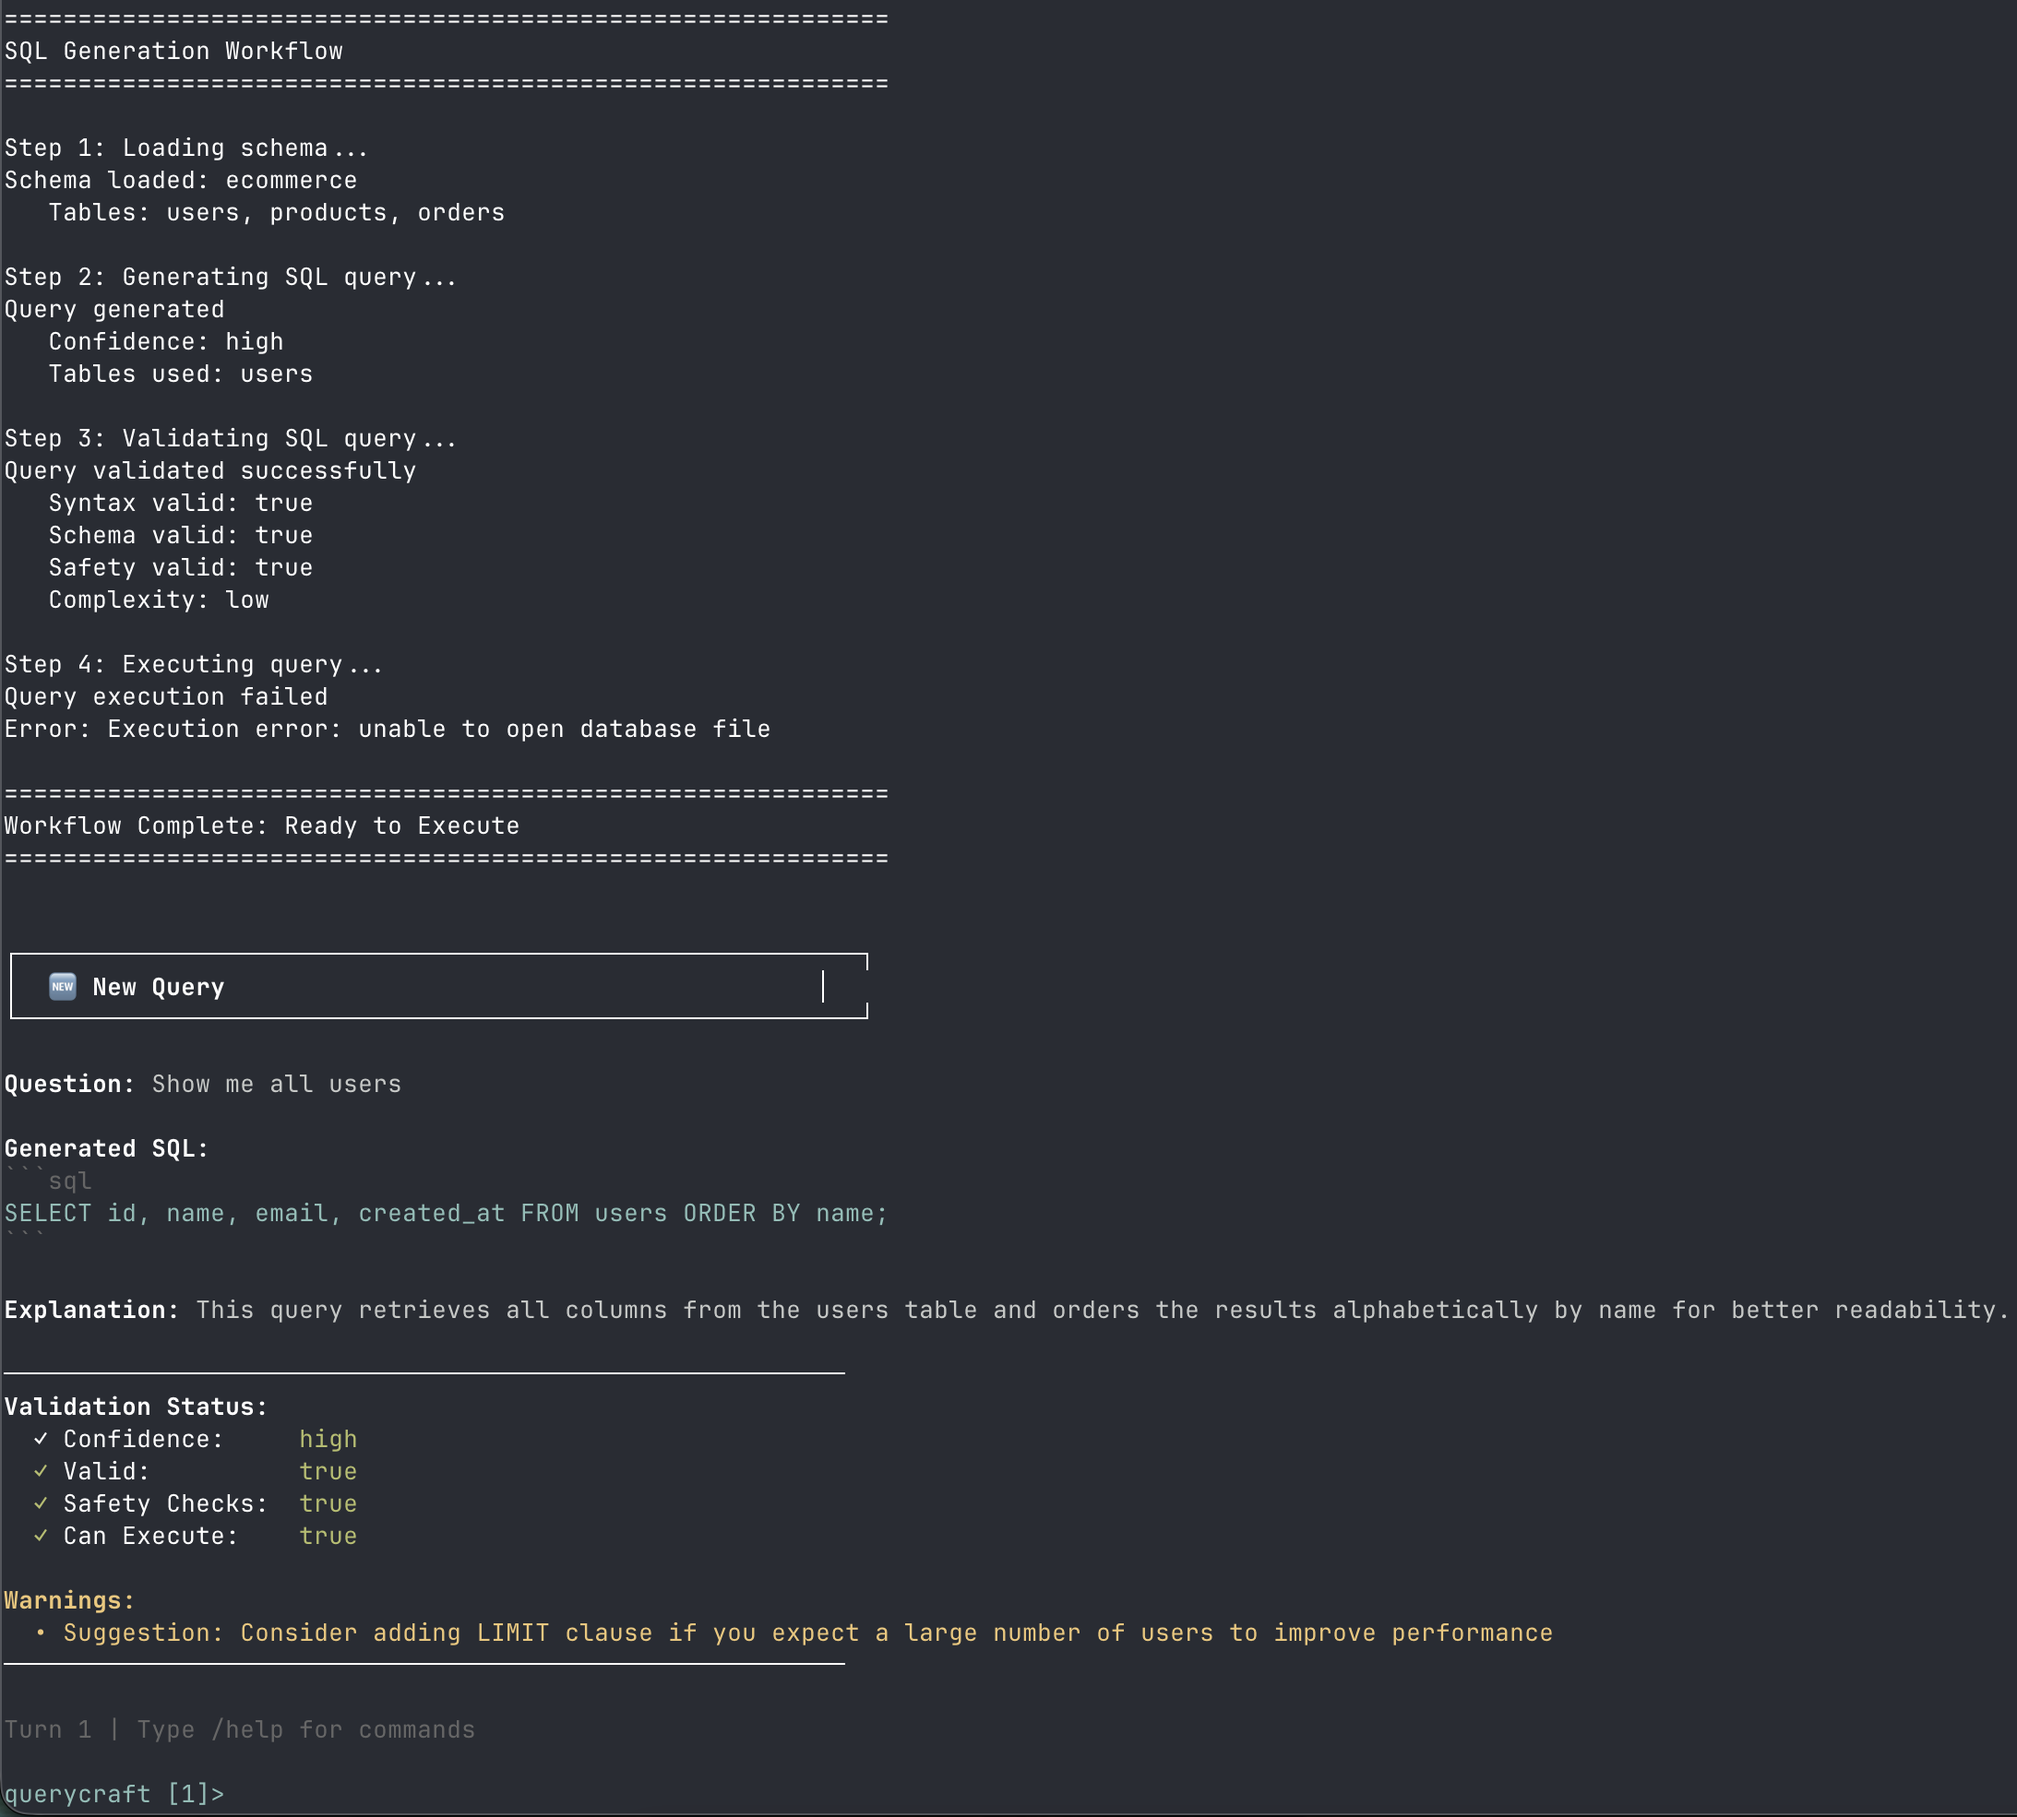
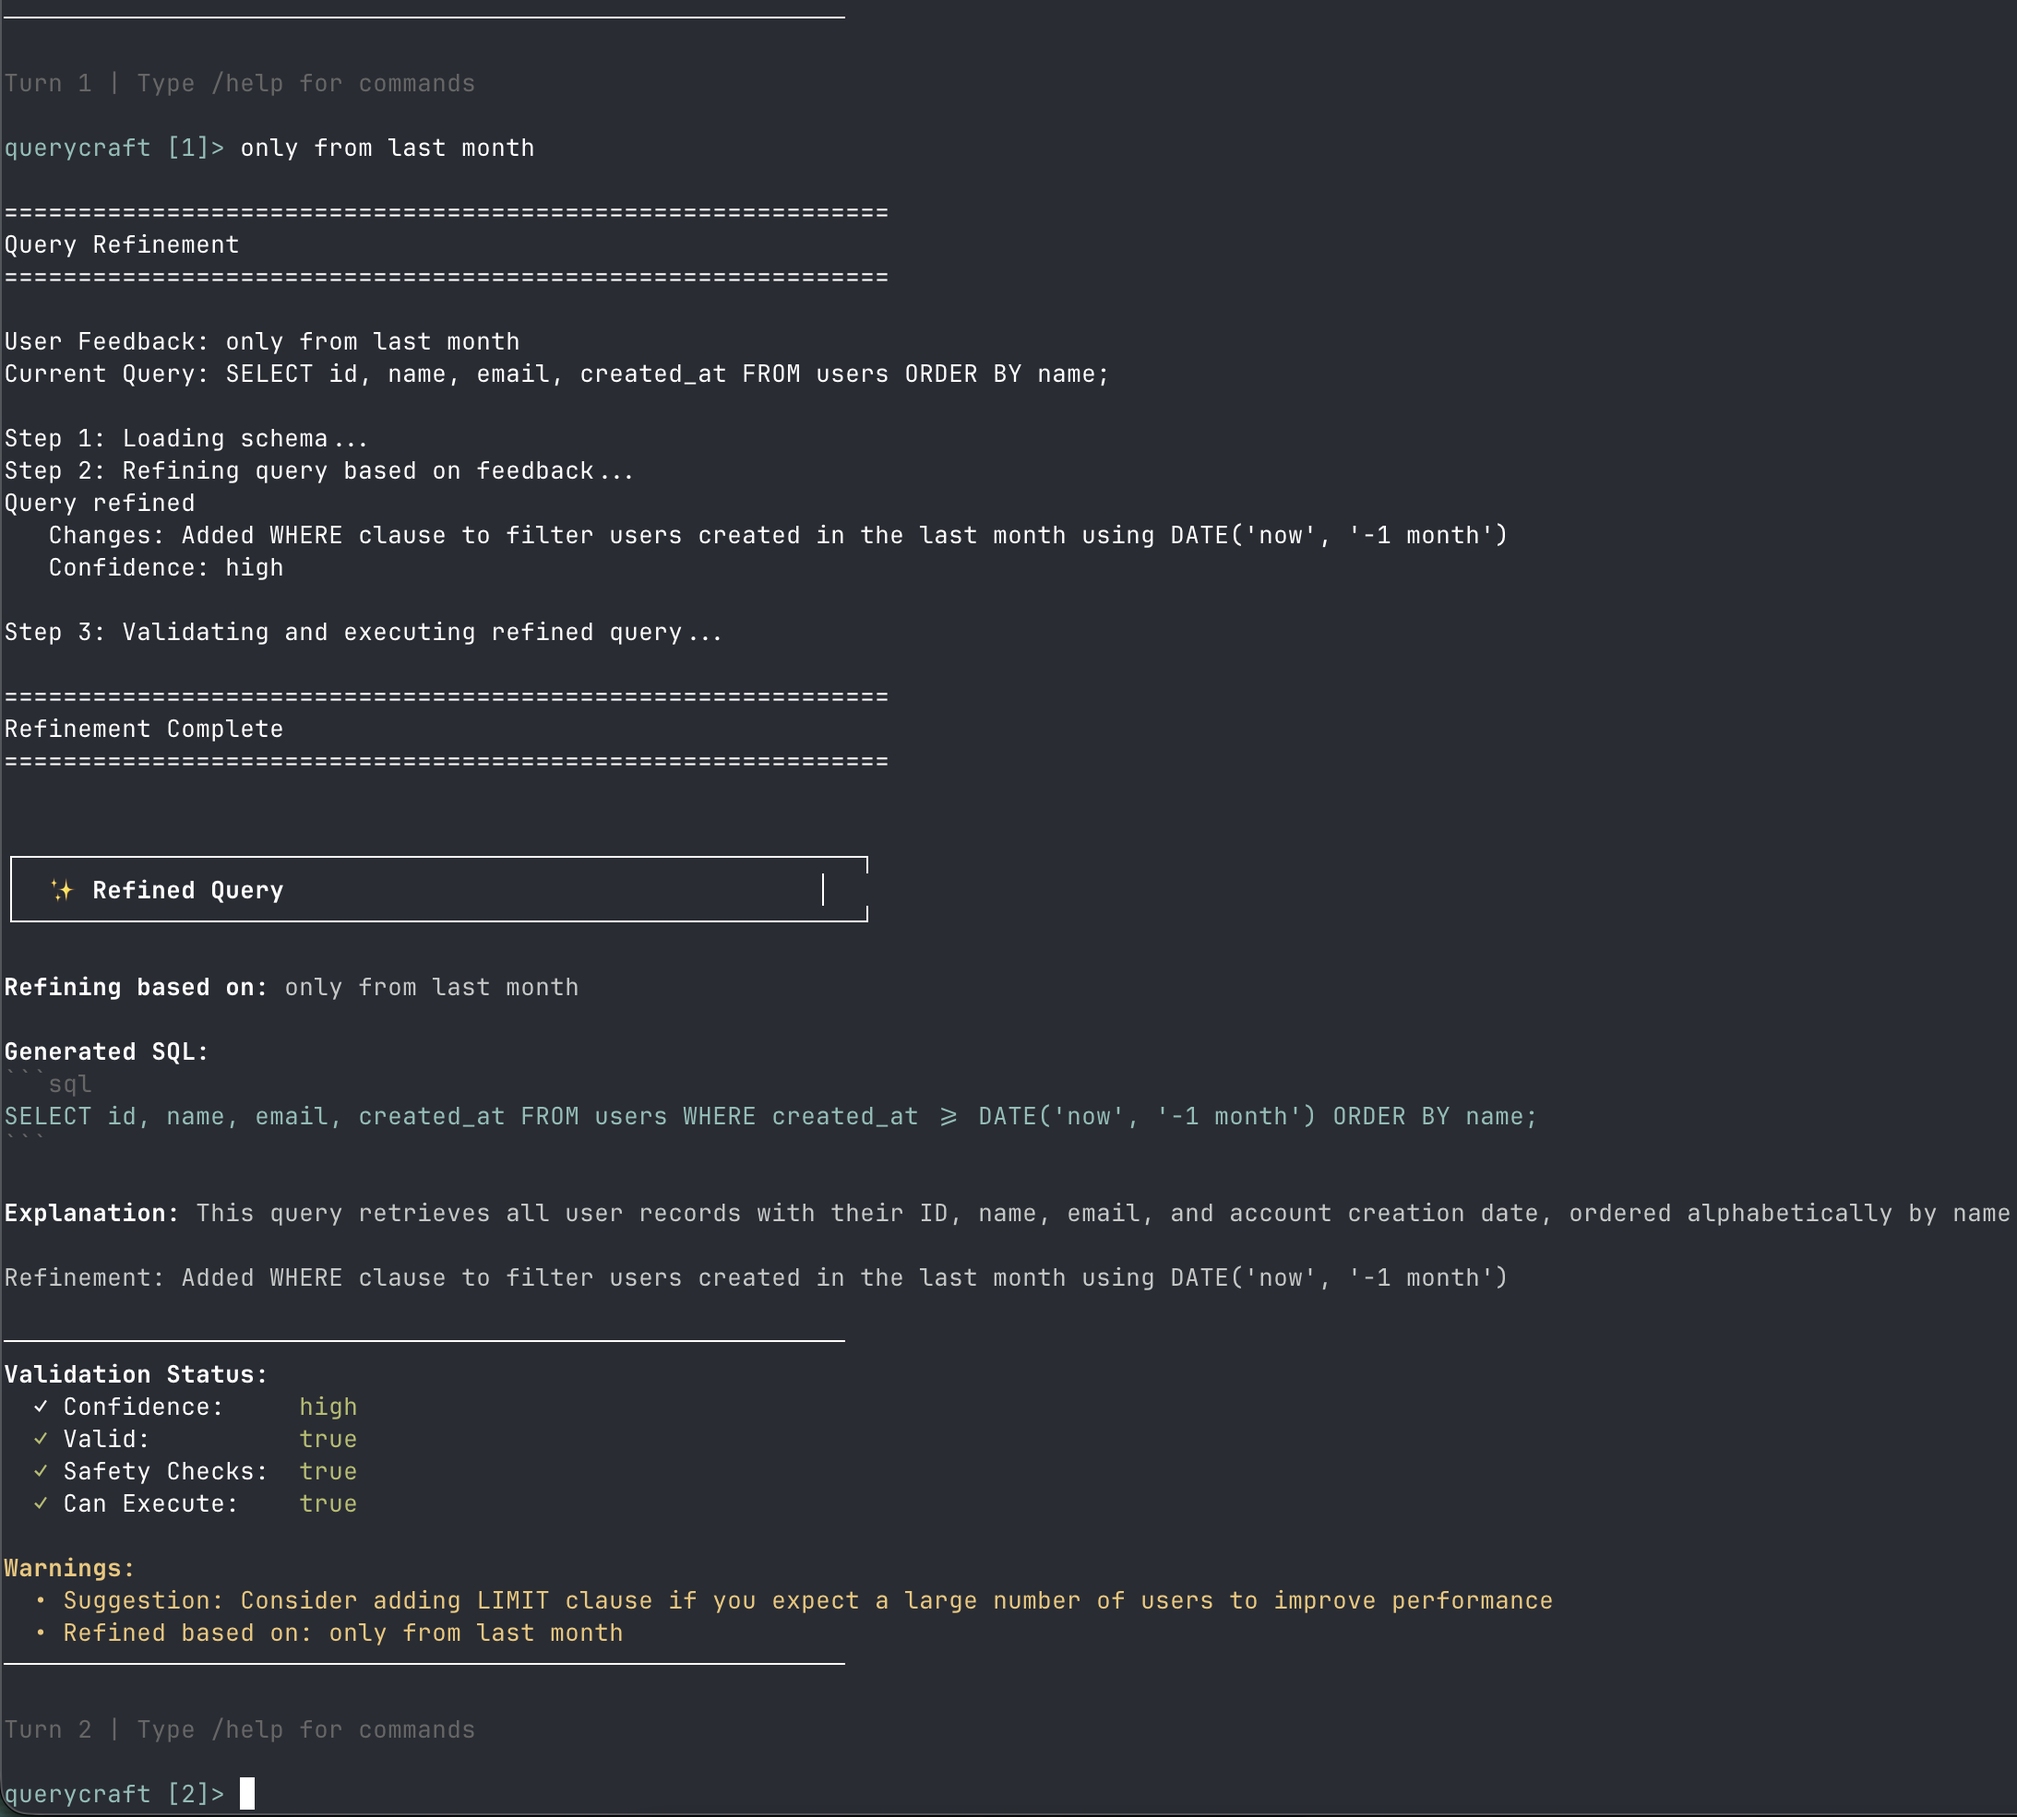
Fix workflow and screenshot

diff --git a/query-craft/src/workflows/sql-refinement.ts b/query-craft/src/workflows/sql-refinement.ts
@@ -1,19 +1,27 @@
 import type { SqlGenerationOutput } from "../types/index.js";
 import { SqlGenerationWorkflow } from "./sql-generation.js";
 import { QueryRefiner } from "../agents/query-refiner.js";
+import { SchemaLoader } from "../agents/schema-loader.js";
 
 export interface RefinementContext {
   originalQuestion: string;
   currentQuery: string;
   currentResult: SqlGenerationOutput;
   feedback: string;
+  database: string;
 }
 
 export class SqlRefinementWorkflow {
   private queryRefiner: QueryRefiner;
+  private schemaLoader: SchemaLoader;
 
-  constructor(_sqlWorkflow: SqlGenerationWorkflow, queryRefiner: QueryRefiner) {
+  constructor(
+    _sqlWorkflow: SqlGenerationWorkflow,
+    queryRefiner: QueryRefiner,
+    schemaLoader: SchemaLoader,
+  ) {
     this.queryRefiner = queryRefiner;
+    this.schemaLoader = schemaLoader;
   }
 
   /**
@@ -28,8 +36,19 @@ export class SqlRefinementWorkflow {
     console.log("Current Query:", context.currentQuery);
     console.log("");
 
-    // Step 1: Get refined query from refiner agent
-    console.log("Step 1: Refining query based on feedback...");
+    // Step 1: Load schema
+    console.log("Step 1: Loading schema...");
+    const schemaResult = await this.schemaLoader.execute({
+      database: context.database,
+    });
+
+    if (schemaResult.validationStatus !== "valid") {
+      console.error("❌ Schema validation failed - returning original query");
+      return context.currentResult;
+    }
+
+    // Step 2: Get refined query from refiner agent
+    console.log("Step 2: Refining query based on feedback...");
 
     const refinement = await this.queryRefiner.execute({
       originalQuestion: context.originalQuestion,
@@ -41,15 +60,15 @@ export class SqlRefinementWorkflow {
             rowCount: context.currentResult.executionResult.rowCount,
           }
         : undefined,
-      schema: context.currentResult.schemaUsed as any, // We'll need the actual schema object
+      schema: schemaResult.schema,
     });
 
     console.log("Query refined");
     console.log(`   Changes: ${refinement.changes}`);
     console.log(`   Confidence: ${refinement.confidence}\n`);
 
-    // Step 2: Execute the refined query through the normal workflow
-    console.log("Step 2: Validating and executing refined query...");
+    // Step 3: Execute the refined query through the normal workflow
+    console.log("Step 3: Validating and executing refined query...");
 
     // We need to manually create the workflow steps since we already have the query
     console.log(`\n${"=".repeat(60)}`);

diff --git a/query-craft/src/workflows/interactive-refinement.ts b/query-craft/src/workflows/interactive-refinement.ts
@@ -73,11 +73,13 @@ export class InteractiveRefinementWorkflow {
         });
       } else {
         // Execute refinement workflow
+        const context = this.dialogManager.getContext();
         const refinementContext: RefinementContext = {
           originalQuestion,
           currentQuery: lastQuery,
           currentResult: lastResult,
           feedback: userInput,
+          database: context.database,
         };
 
         result = await this.sqlRefinementWorkflow.refine(refinementContext);

diff --git a/query-craft/src/index.ts b/query-craft/src/index.ts
@@ -236,6 +236,7 @@ program
     const refinementWorkflow = new SqlRefinementWorkflow(
       sqlWorkflow,
       queryRefiner,
+      schemaLoader,
     );
 
     const dialogManager = new DialogManager(options.database);
